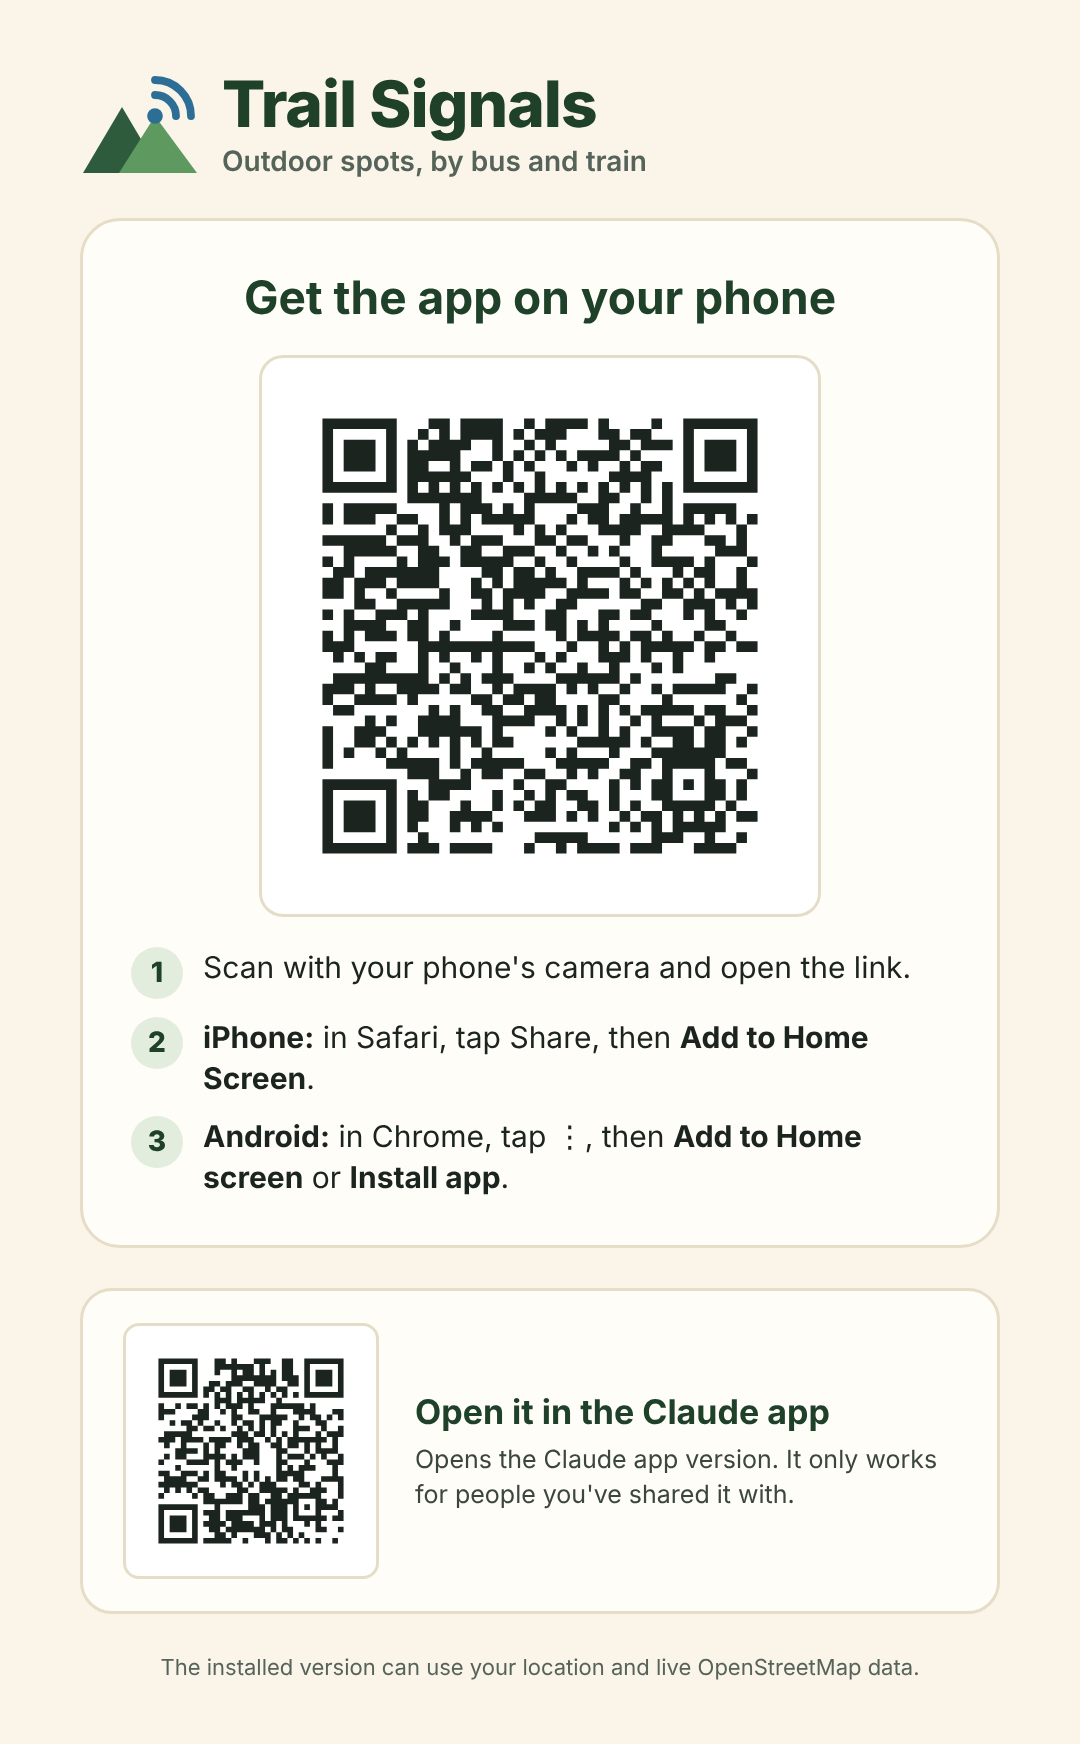
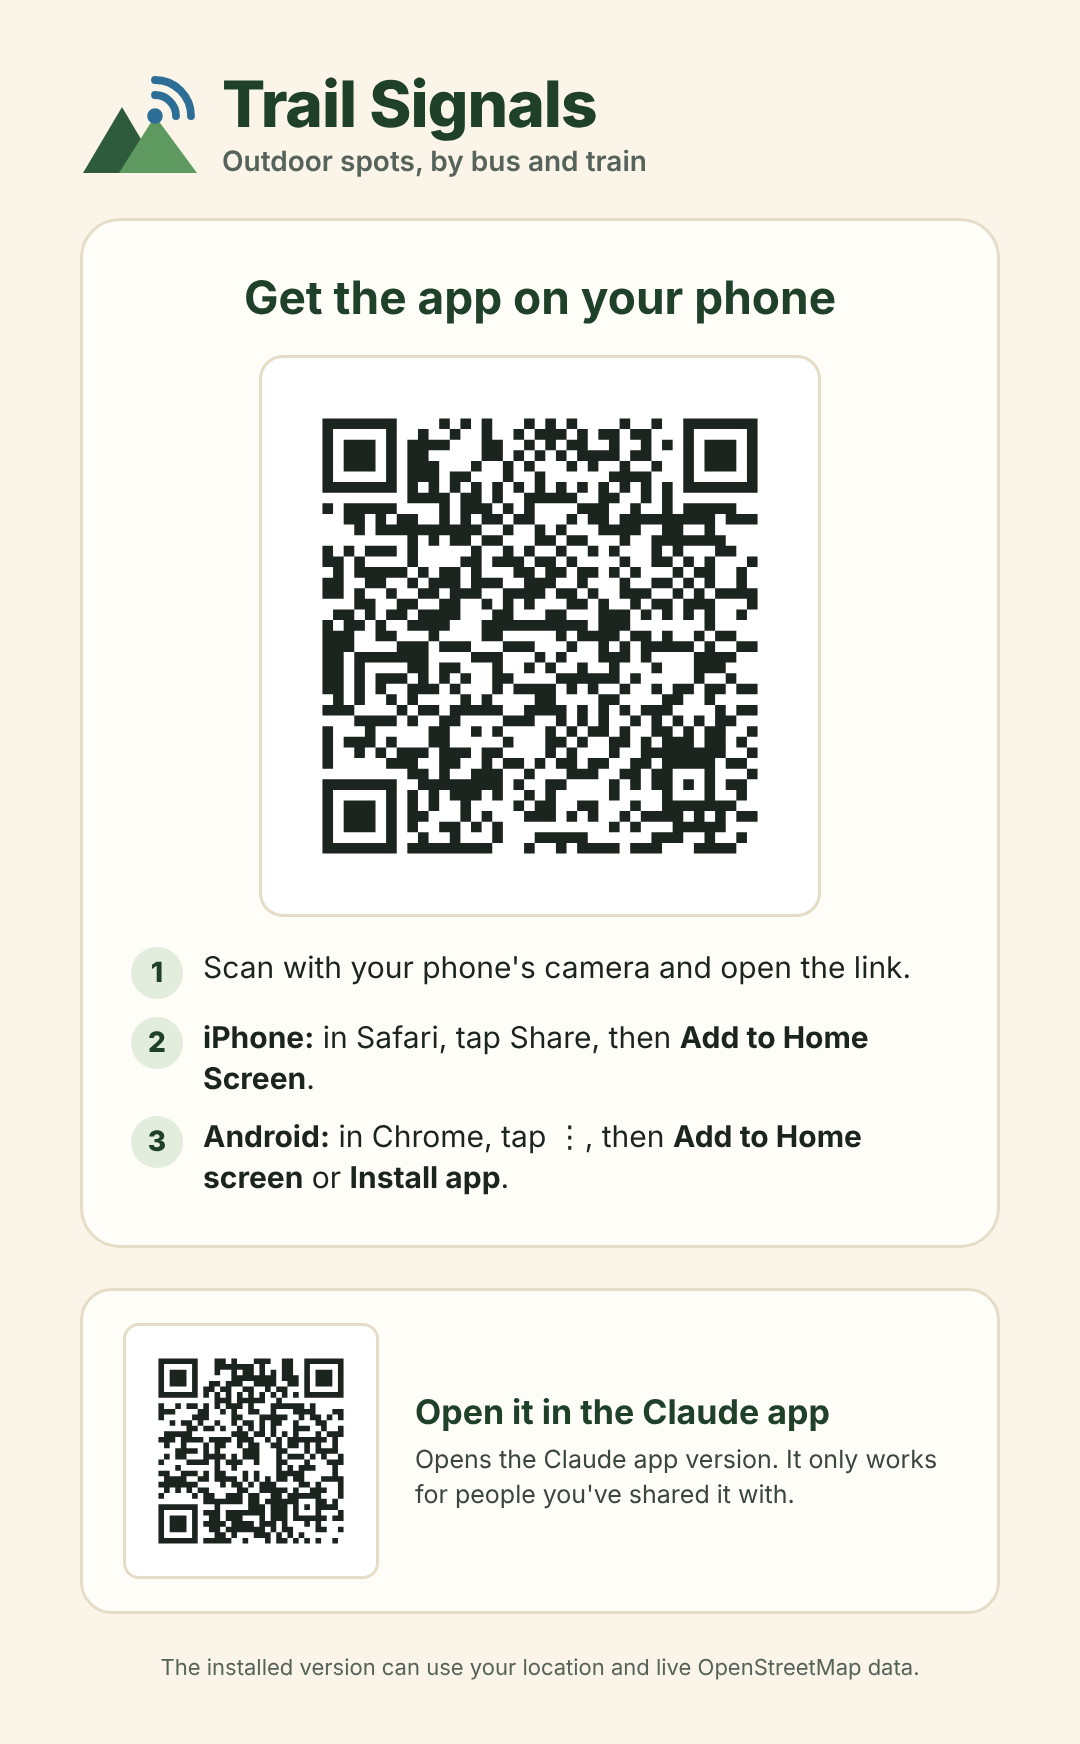
Point Claude version and QR card at the latest web version
Claude-Session: https://claude.ai/code/session_01BaU86y4utuwD31S4rRFS1s

diff --git a/app/trail-signals.html b/app/trail-signals.html
@@ -272,7 +272,7 @@ const P = {
   download:'<path d="M12 3v12M7 10l5 5 5-5M5 21h14"/>'
 };
 const IN_CLAUDE = !!(window.claude && typeof window.claude.use === 'function');
-const WEB_URL = 'WEB_URL_PLACEHOLDER';
+const WEB_URL = 'https://raw.githack.com/md505d1-art/Trail-Signals/7e380284ec1d708e0b8e32ddb63976ece5217fb9/index.html';
 const ic = (n, s = 18, w = 2.2, fill) => `<svg width="${s}" height="${s}" viewBox="0 0 24 24" fill="${fill || 'none'}" stroke="currentColor" stroke-width="${w}" stroke-linecap="round" stroke-linejoin="round" aria-hidden="true">${P[n] || P.info}</svg>`;
 const LOGO = s => `<svg width="${s}" height="${Math.round(s*0.85)}" viewBox="0 0 40 34" aria-hidden="true"><path d="M1 33L14 11l13 22z" fill="var(--forest)"/><path d="M13 33l12-19 14 19z" fill="var(--leaf)"/><path d="M25 7a7 7 0 0 1 7 7M25 2a12 12 0 0 1 12 12" stroke="var(--sky)" stroke-width="2.6" fill="none" stroke-linecap="round"/><circle cx="25" cy="14" r="2.6" fill="var(--sky)"/></svg>`;
 

diff --git a/README.md b/README.md
@@ -16,7 +16,7 @@ Scan [`qr/trail-signals-qr-card.png`](qr/trail-signals-qr-card.png), open the li
 
 | Where it runs | Your location | Places and stops | Travel times |
 |---|---|---|---|
-| Web version (`index.html`) | Device GPS, or type any town | Live from OpenStreetMap (Overpass API), with Nominatim for place names | Estimated from distance and stop type, clearly labelled |
+| Web version (`index.html`) | Device GPS, or type any town | Live from OpenStreetMap (Overpass API, raced across four public servers), with Photon and Nominatim for place names | Estimated from distance and stop type, clearly labelled |
 | Claude app artifact | Type any town, area or station (the app sandbox blocks GPS and outside map data) | Suggested by Claude, labelled "Suggested by Claude · check details" | Typical times from Claude, labelled as such |
 | Anywhere | Demo city | Made-up sample places | Made up |
 
@@ -28,6 +28,8 @@ Sunrise, sunset and dusk are calculated on the device for the starting point, so
 - **Place details:** illustration (generated per place and time of day), stats, latest-update banner, daylight advice, public transport options, lines at the stop, visitor updates with "Still true" / "Not now", and tips.
 - **Plan your trip:** leave now, later or "Catch the sunset". You get an outbound timeline with a final-walk sketch and directions. A return-journey toggle lets you choose how long to stay and checks whether you'll walk back in daylight. Trips can be saved.
 - **Add an update:** pick what you noticed, where and when, then add a note and an optional photo. In the Claude artifact, updates are shared with everyone who can use the page; elsewhere they stay on the device.
+- **Food:** cafés, ice cream, bakeries, food markets and notable restaurants show up under the Food spots filter. Every outdoor spot lists food and shops within about 500 m.
+- **Offline:** tap **Save offline** on any area. Saved areas, their spots and food lists keep working without a connection, and the web version keeps itself cached. Live times and new searches still need a connection.
 - **Saved, Trips, Updates** tabs.
 
 ## Earlier design canvas
